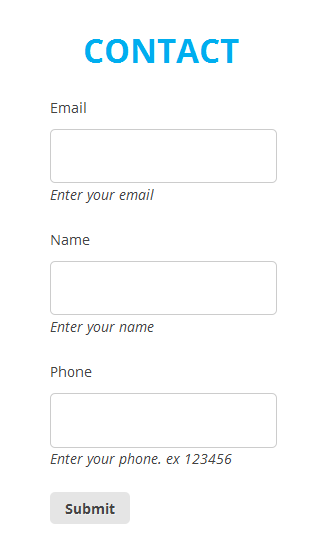
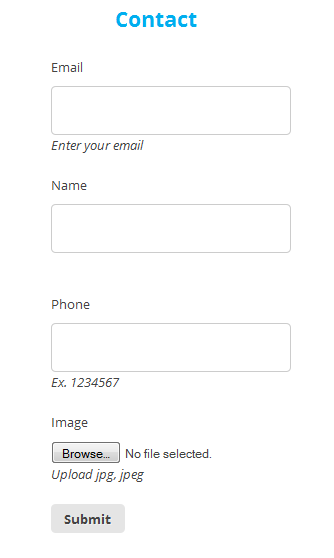
upload.
git-svn-id: https://plugins.svn.wordpress.org/contact-form-with-shortcode/trunk@1015394 b8457f37-d9ea-0310-8a92-e5e31aec5664

diff --git a/fields_class.php b/fields_class.php
@@ -1,7 +1,7 @@
 <?php
 class fields_class {
 	
-	public $fields = array('text','textarea','select','checkbox','radio','date','time');
+	public $fields = array('text','textarea','select','checkbox','radio','date','time','file');
 	
 	function __construct() {
 		add_action( 'admin_init', array( $this, 'field_save_settings' ) );
@@ -94,6 +94,10 @@ class fields_class {
 				echo '<input type="text" name="'.$name.'" class="wp_reg_time" id="'.$id.'" value="'.$value.'" '.$required.'>';
 				echo $this->get_field_desc($desc);
 				$this->dateJsCall();
+			break;
+			case 'file':
+				echo '<input type="file" name="'.$name.'" id="'.$id.'" '.$required.'>';
+				echo $this->get_field_desc($desc);
 			break;
 			default:
 				echo '<input type="text" name="'.$name.'" id="'.$id.'" value="'.$value.'" '.$required.'>';
@@ -197,6 +201,13 @@ class fields_class {
 				echo '<input type="hidden" name="field_values" id="field_values" value="not_required"/>';
 			break;
 			case 'time':
+				echo '<p>Field Label <input type="text" name="field_label" id="field_label" placeholder="Field Label" required/></p>';
+				echo '<p>Field Name <input type="text" name="field_name" id="field_name" placeholder="Field Name" required/><span>Use only letters</span></p>';
+				echo '<p>Field Description <input type="text" name="field_desc" id="field_desc" placeholder="Field Description"/></p>';
+				echo '<p>Field is required <select name="field_required" id="field_required"><option value="Yes">Yes</option><option value="No">No</option></select></p>';
+				echo '<input type="hidden" name="field_values" id="field_values" value="not_required"/>';
+			break;
+			case 'file':
 				echo '<p>Field Label <input type="text" name="field_label" id="field_label" placeholder="Field Label" required/></p>';
 				echo '<p>Field Name <input type="text" name="field_name" id="field_name" placeholder="Field Name" required/><span>Use only letters</span></p>';
 				echo '<p>Field Description <input type="text" name="field_desc" id="field_desc" placeholder="Field Description"/></p>';
@@ -308,6 +319,15 @@ class fields_class {
 				$ret .= '<input type="hidden" name="field_types[]" value="'.$field_type.'"/>';
 			break;
 			case 'time':
+				$ret .= '<p>Field Label <input type="text" name="field_labels[]" placeholder="Field Label" value="'.$field_label.'" required/></p>';
+				$ret .= '<p>Field Name <input type="text" name="field_names[]" placeholder="Field Name" value="'.$field_name.'" required/><span>Use only letters</span></p>';
+				$ret .= '<p>Field Description <input type="text" name="field_descs[]" value="'.$field_desc.'"  placeholder="Field Description"/></p>';
+				
+				$ret .= '<p>Field is required <select name="field_requireds[]"><option value="Yes" '.($field_required=='Yes'?'selected="selected"':'').'>Yes</option><option value="No" '.($field_required=='No'?'selected="selected"':'').'>No</option></select></p>';
+				$ret .= '<input type="hidden" name="field_values_array[]" value="not_required"/>';
+				$ret .= '<input type="hidden" name="field_types[]" value="'.$field_type.'"/>';
+			break;
+			case 'file':
 				$ret .= '<p>Field Label <input type="text" name="field_labels[]" placeholder="Field Label" value="'.$field_label.'" required/></p>';
 				$ret .= '<p>Field Name <input type="text" name="field_names[]" placeholder="Field Name" value="'.$field_name.'" required/><span>Use only letters</span></p>';
 				$ret .= '<p>Field Description <input type="text" name="field_descs[]" value="'.$field_desc.'"  placeholder="Field Description"/></p>';

diff --git a/contact_mail_class.php b/contact_mail_class.php
@@ -9,14 +9,19 @@ class contact_mail_class {
 		$contact 			= get_post($id); 
 		$contact_subject 	= get_post_meta( $contact->ID, '_contact_subject', true );
 		$form_name 			= get_post_meta( $contact->ID, '_contact_from_name', true );
-		$form_mail 			= get_post_meta( $contact->ID, '_contact_from_mail', true );
+		$from_mail 			= get_post_meta( $contact->ID, '_contact_from_mail', true );
 		$to_mail 			= get_post_meta( $contact->ID, '_contact_to_mail', true );
 		$form_fields 		= get_post_meta( $contact->ID, '_contact_extra_fields', true );
 		$body 				= get_post_meta( $contact->ID, '_contact_mail_body', true );
+		$attachments = array();
 		
 		if(is_array($form_fields)){
 			foreach($form_fields as $k => $v){
-				$body = str_replace('#'.$v['field_name'].'#', $_REQUEST[$v['field_name']], $body);
+				if($v['field_type'] == 'file'){
+					$attachments[] = $this->get_file_attachments($v['field_name']);
+				} else {
+					$body = str_replace('#'.$v['field_name'].'#', $_REQUEST[$v['field_name']], $body);
+				}
 			}
 		}
 		
@@ -24,12 +29,29 @@ class contact_mail_class {
 			$to_mail
 		);
 		
-		$headers[] = 'From: ' . $form_name . ' <' . $form_mail . '>';
+		
+		$headers[] = 'From: ' . $form_name . ' <' . $from_mail . '>';
 		
 		add_filter( 'wp_mail_content_type', array($this, 'set_html_content_type') );
-		$bol = wp_mail( $multiple_to_recipients, $contact_subject ,$body, $headers );
+		$bol = wp_mail( $multiple_to_recipients, $contact_subject ,$body, $headers, $attachments );
 		remove_filter( 'wp_mail_content_type', array($this, 'set_html_content_type') );
 		return $bol;
+	}
+	
+	public function get_file_attachments($name){
+		global $sup_attachment_files_array;
+		if ( ! function_exists( 'wp_handle_upload' ) ) require_once( ABSPATH . 'wp-admin/includes/file.php' );
+		$uploadedfile = $_FILES[$name];
+		$upload_overrides = array( 'test_form' => false );
+		$arr_file_type = wp_check_filetype(basename($_FILES[$name]['name']));
+		$uploaded_type = $arr_file_type['type'];
+		if(in_array($uploaded_type, $sup_attachment_files_array)) {
+			$movefile = wp_handle_upload( $uploadedfile, $upload_overrides );
+			if ( $movefile ) {
+				return $movefile['file'];
+			} 
+		}
+		
 	}
 	
 	public function set_html_content_type() {

diff --git a/settings.php b/settings.php
@@ -19,9 +19,10 @@ class contact_settings {
 			<table width="100%" border="0" style="background-color:#FFFFFF; padding:10px; border:1px dotted #999999;">
 			  <tr>
 				<td>
-				<p> Create multiple contact forms for your site.</p>
-				<p> Contact forms can be displayed using widgets and shortcodes in your theme. Unlimited number of dynamic fields can be created for contact forms.</p>
-				<p> Dynamic fields can be easily included in the mail template.</p>
+				<p>1. Create multiple contact forms for your site.</p>
+				<p>2. Contact forms can be displayed using widgets and shortcodes in your theme. Unlimited number of dynamic fields can be created for contact forms.</p>
+				<p>3. Dynamic fields can be easily included in the mail template.</p>
+				<p>4. Files can be uploaded as attachment in contact forms. Supported file types are <strong>jpg, jpeg, png, gif, doc, docx, pdf</strong></p>
 				
 				<strong>Mail Body Example</strong>
 				<p> For example you have created two contact form fields</p>

diff --git a/contact.php b/contact.php
@@ -3,7 +3,7 @@
 Plugin Name: Contact Form With Shortcode
 Plugin URI: http://aviplugins.com/
 Description: This is a contact form plugin. You can use widgets and shortcodes to display contact form in your theme. Unlimited number of dynamic fields can me created for contact froms.
-Version: 1.1.1
+Version: 2.0.0
 Author: avimegladon
 Author URI: http://avifoujdar.wordpress.com/
 */
@@ -21,3 +21,12 @@ include_once dirname( __FILE__ ) . '/contact_class.php';
 include_once dirname( __FILE__ ) . '/contact_afo_widget.php';
 include_once dirname( __FILE__ ) . '/contact_afo_widget_shortcode.php';
 include_once dirname( __FILE__ ) . '/contact_mail_class.php';
+
+$sup_attachment_files_array = array( 
+'image/jpeg',  
+'image/png', 
+'image/gif', 
+'application/msword', 
+'application/vnd.openxmlformats-officedocument.wordprocessingml.document', 
+'application/pdf', 
+);

diff --git a/contact_afo_widget.php b/contact_afo_widget.php
@@ -85,7 +85,7 @@ class contact_form_wid extends WP_Widget {
 	$this->error_message($instance['wid_contact_form']);
 	?>
 	<div id="cont_forms">
-		<form name="con" id="con-<?php echo $instance['wid_contact_form'];?>" <?php echo $ajax_submit;?> action="" method="post">
+		<form name="con" id="con-<?php echo $instance['wid_contact_form'];?>" <?php echo $ajax_submit;?> action="" method="post" enctype="multipart/form-data">
 		<ul class="contact_afo id-<?php echo $instance['wid_contact_form'];?>">
 			<?php $cfc->contactFormFields($instance['wid_contact_form']); ?>
 			<input type="hidden" name="con_form_id" value="<?php echo $instance['wid_contact_form'];?>" />
